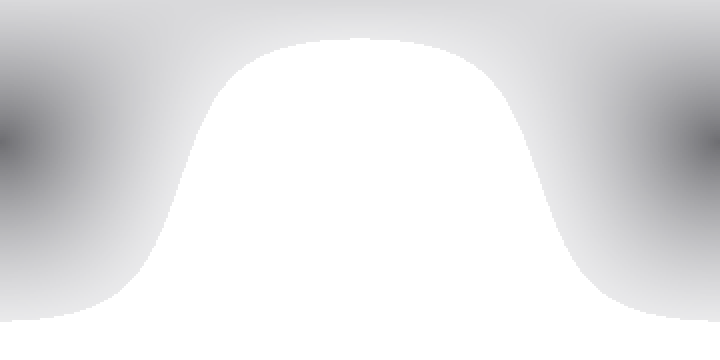
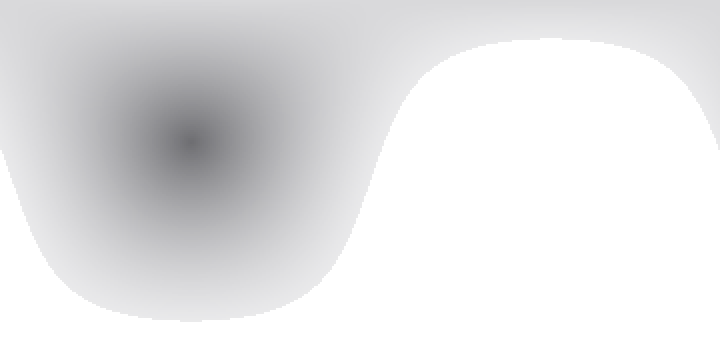
Bounded world map (no infinite scroll); sun time from current UTC

diff --git a/examples/output/ground_track.html b/examples/output/ground_track.html
@@ -37,11 +37,15 @@
     }
   }
   segments.push(cur);
-  const map = L.map('map').setView([0, 0], 2);
+  const map = L.map('map', {
+    maxBounds: [[-90, -180], [90, 180]],
+    maxBoundsViscosity: 1.0,
+    worldCopyJump: false
+  }).setView([0, 0], 2);
   // Proveedor de tiles que funciona abriendo el HTML localmente (file://).
   // OpenStreetMap bloquea las peticiones sin Referer; Esri no.
   L.tileLayer('https://server.arcgisonline.com/ArcGIS/rest/services/World_Street_Map/MapServer/tile/{z}/{y}/{x}', {
-    maxZoom: 8, attribution: 'Tiles &copy; Esri, DeLorme, NAVTEQ'
+    maxZoom: 8, noWrap: true, attribution: 'Tiles &copy; Esri, DeLorme, NAVTEQ'
   }).addTo(map);
   // Sombreado día/noche (degradado)
   L.imageOverlay('daynight.png', [[-90, -180], [90, 180]], {opacity: 0.85, interactive: false}).addTo(map);

diff --git a/examples/run_web_ground_track.py b/examples/run_web_ground_track.py
@@ -27,11 +27,11 @@ lat, lon, alt, t = orbit_ground_track(a_km=6871.0, e=0.0, i_deg=51.6,
 points = [[float(la), float(lo)] for la, lo in zip(lat, lon)]
 
 # Generar imagen día/noche (equirectangular) para overlay en el mapa web
-subsolar_lon = 0.0
-# declinación solar aproximada para la fecha actual (invierno en hemisferio norte)
-import datetime as _dt
-_doy = _dt.date.today().timetuple().tm_yday
-subsolar_lat = -23.44 * __import__('numpy').cos(2 * __import__('numpy').pi * (_doy + 10) / 365.25)
+import sys as _sys
+_sys.path.insert(0, os.path.join(os.path.dirname(__file__), "..", "src"))
+from orbitas_rt.viz import solar_subsolar_lon, solar_declination
+subsolar_lon = solar_subsolar_lon()
+subsolar_lat = solar_declination()
 N = 360
 lons = np.linspace(-180, 180, N)
 slat = np.radians(subsolar_lat)
@@ -99,11 +99,15 @@ html = """<!DOCTYPE html>
     }
   }
   segments.push(cur);
-  const map = L.map('map').setView([0, 0], 2);
+  const map = L.map('map', {
+    maxBounds: [[-90, -180], [90, 180]],
+    maxBoundsViscosity: 1.0,
+    worldCopyJump: false
+  }).setView([0, 0], 2);
   // Proveedor de tiles que funciona abriendo el HTML localmente (file://).
   // OpenStreetMap bloquea las peticiones sin Referer; Esri no.
   L.tileLayer('https://server.arcgisonline.com/ArcGIS/rest/services/World_Street_Map/MapServer/tile/{z}/{y}/{x}', {
-    maxZoom: 8, attribution: 'Tiles &copy; Esri, DeLorme, NAVTEQ'
+    maxZoom: 8, noWrap: true, attribution: 'Tiles &copy; Esri, DeLorme, NAVTEQ'
   }).addTo(map);
   // Sombreado día/noche (degradado)
   L.imageOverlay('daynight.png', [[-90, -180], [90, 180]], {opacity: 0.85, interactive: false}).addTo(map);

diff --git a/src/orbitas_rt/viz.py b/src/orbitas_rt/viz.py
@@ -91,10 +91,21 @@ def solar_declination(day_of_year=None):
     return float(-23.44 * np.cos(2 * np.pi * (day_of_year + 10) / 365.25))
 
 
+def solar_subsolar_lon(utc_hour=None):
+    """Longitud subsolar aproximada (grados) para una hora UTC.
+
+    A las 12 UTC el sol está sobre el meridiano 0°.
+    """
+    if utc_hour is None:
+        now = datetime.utcnow()
+        utc_hour = now.hour + now.minute / 60.0 + now.second / 3600.0
+    return float(180.0 - utc_hour * 15.0)
+
+
 def ground_track(lat_deg, lon_deg, title, path, color="#1f77b4", show_earth=True,
                  daynight=True, subsolar_lon=None, subsolar_lat=None):
     if subsolar_lon is None:
-        subsolar_lon = 0.0
+        subsolar_lon = solar_subsolar_lon()
     if subsolar_lat is None:
         subsolar_lat = solar_declination()
     """Dibuja una huella en tierra (lat/lon) sobre un mapa equirectangular simple.
@@ -171,7 +182,7 @@ def ground_track(lat_deg, lon_deg, title, path, color="#1f77b4", show_earth=True
 def ground_track_ortho(lat_deg, lon_deg, title, path, color="#1f77b4",
                       subsolar_lon=None, subsolar_lat=None, daynight=True):
     if subsolar_lon is None:
-        subsolar_lon = 0.0
+        subsolar_lon = solar_subsolar_lon()
     if subsolar_lat is None:
         subsolar_lat = solar_declination()
     """Huella en tierra en proyección ortográfica (globo), sin distorsión planar.
